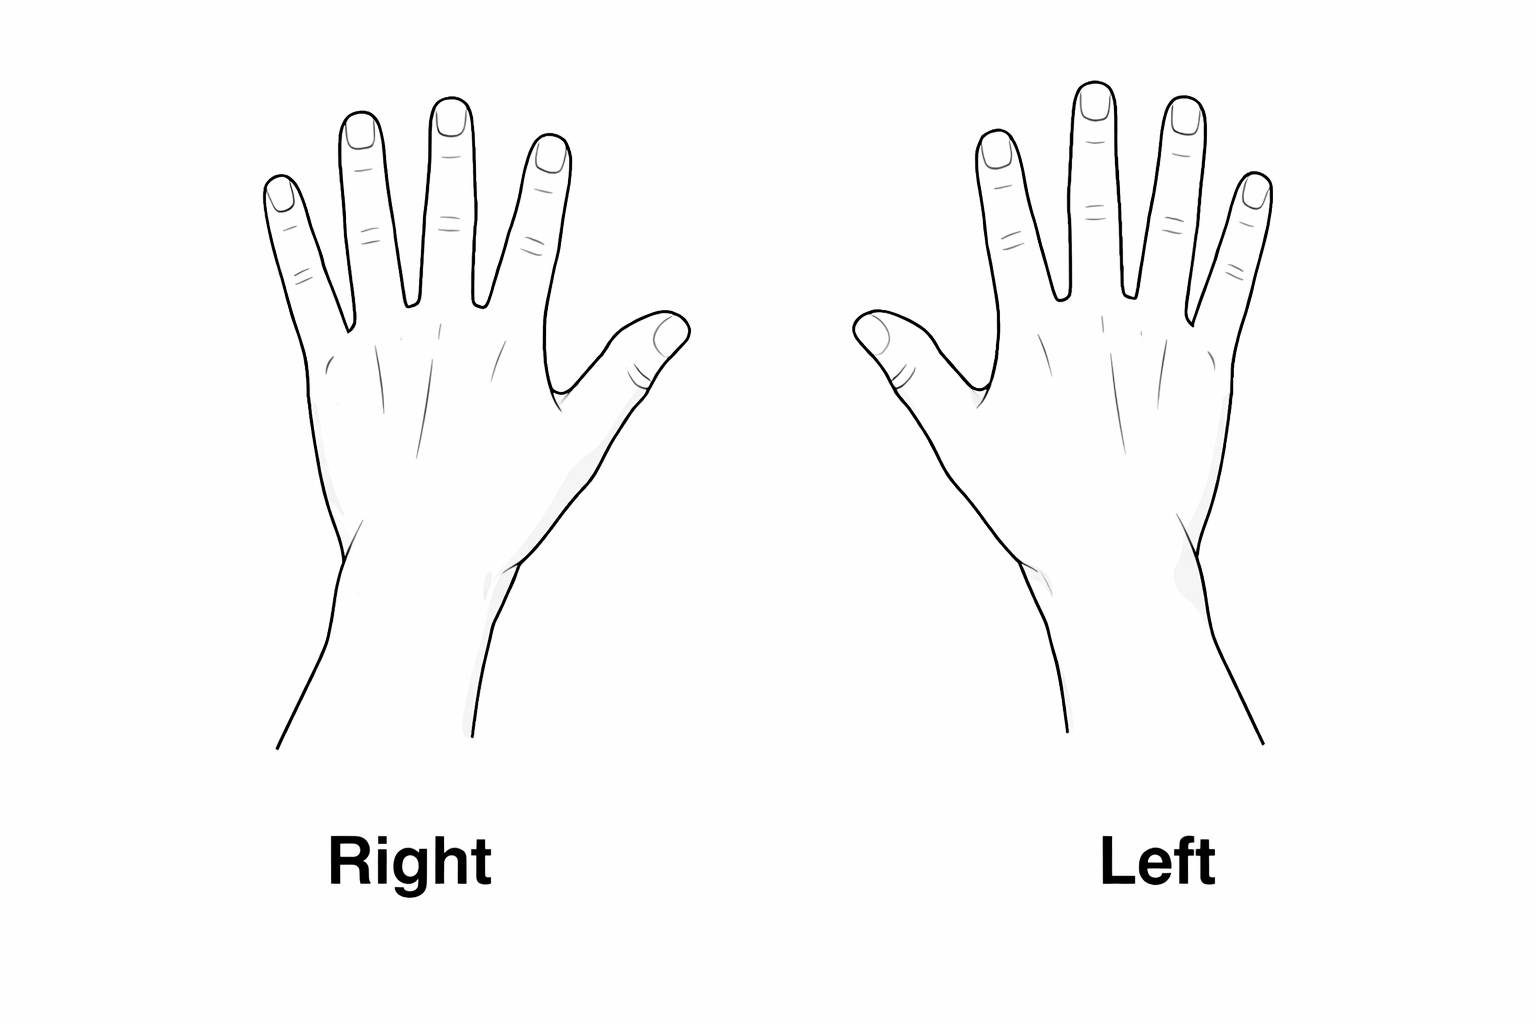
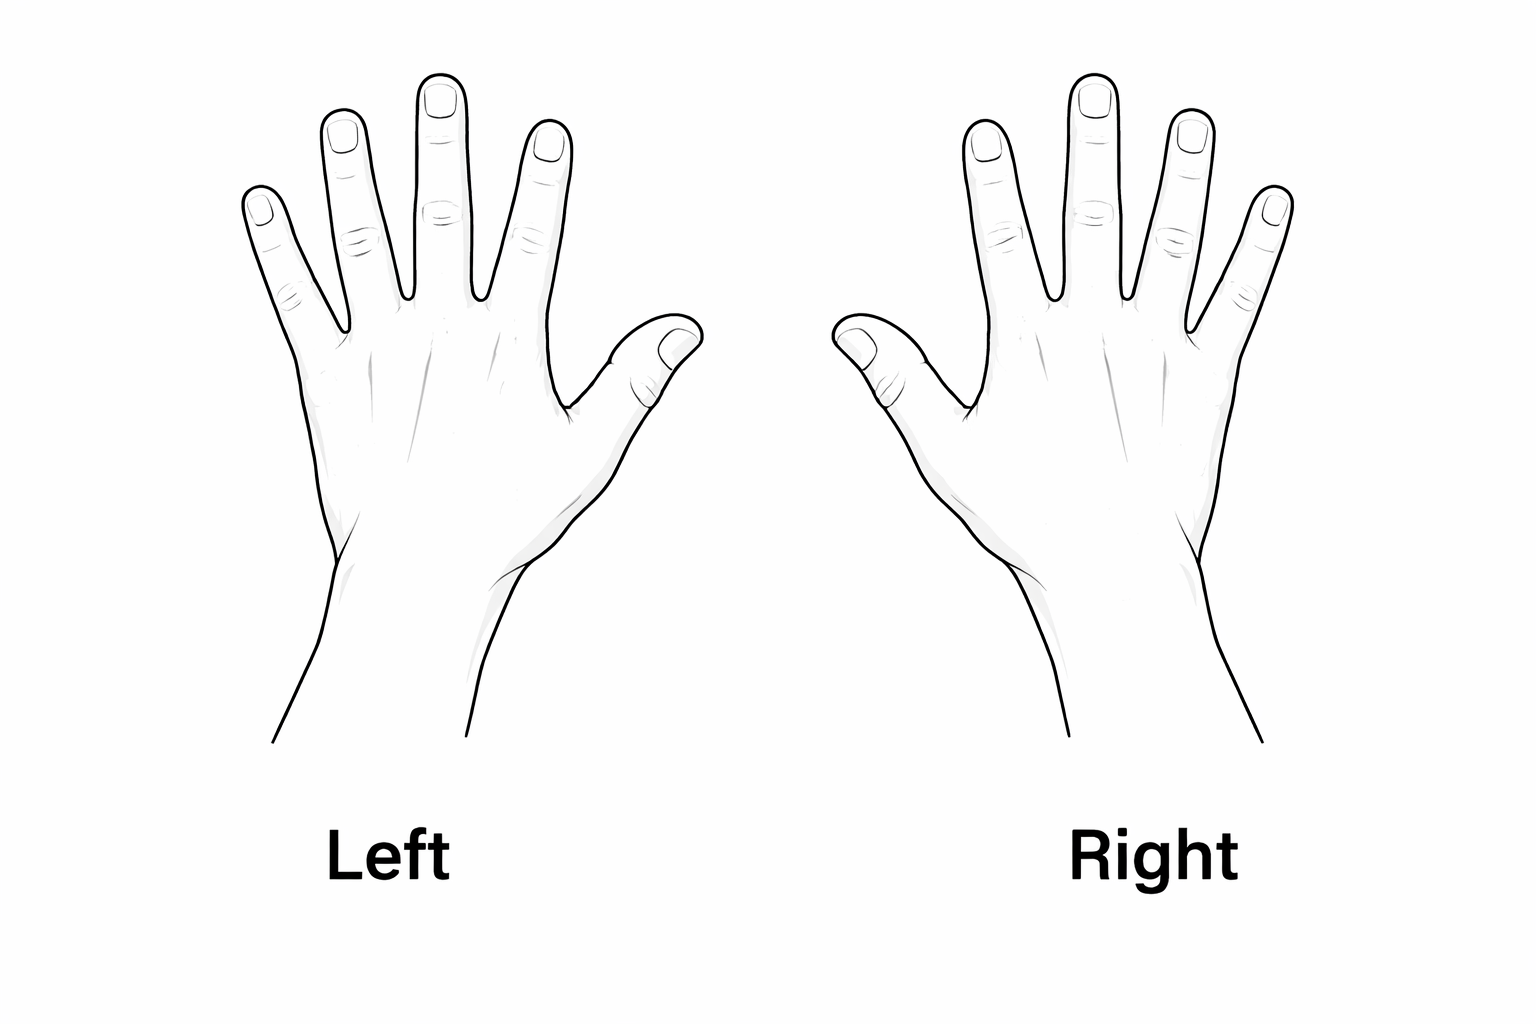
Resolved conflicts

diff --git a/src/features/Nursing/components/NursingAssessment.jsx b/src/features/Nursing/components/NursingAssessment.jsx
@@ -1900,7 +1900,7 @@ export default function NursingAssessment({ patient, onSubmit, onBack }) {
               { label: "Bladder Diary", value: "bladder_diary" },
               { label: "Agitated Behaviour Scale", value: "agitated_behaviour_scale" },
               { label: "Glucose Monitor", value: "glucose_monitor" },
-              { label: "Rehab Checklist", value: "rehab_checklist" },
+              // { label: "Rehab Checklist", value: "rehab_checklist" },
               { label: "Seizure Chart", value: "seizure_chart" }
             ]
           }